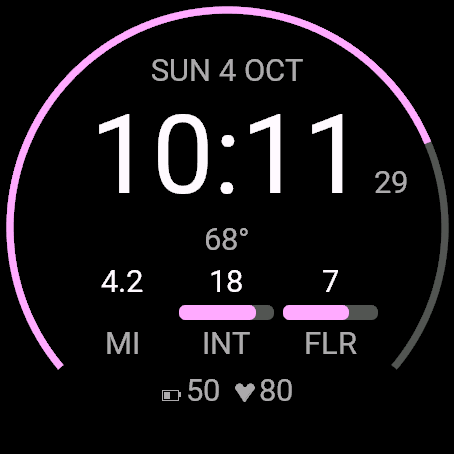
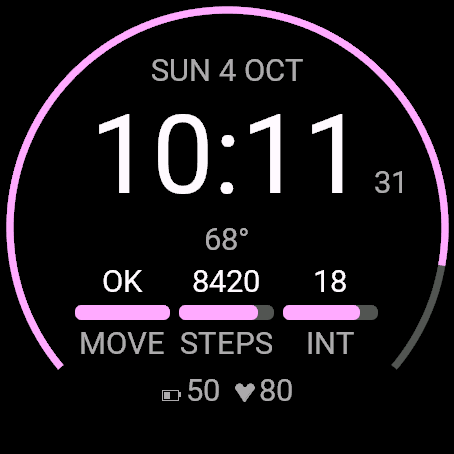
fix(HeroFace): Pro screen 2 and hero use only metrics with a goal, so every bar fills
Claude-Session: https://claude.ai/code/session_01VBnXC1zGyaFSzHFynsMi4H

diff --git a/HeroFace/listing/screenshots.md b/HeroFace/listing/screenshots.md
@@ -9,7 +9,7 @@ All from the Pro build, native simulator pixels, clock 2026-10-04 10:09. No pric
 | # | File | Device | What it shows (what Pro has) |
 |---|---|---|---|
 | 1 | `screens/1-everyday.png` | `fr965`, 454 px | Everyday: 8420 steps, 18 intensity minutes, 7 floors, ring, blue accent, the temperature under the time |
-| 2 | `screens/2-your-bars.png` | `fr965`, 454 px | **Pro's own:** the bars set to distance, intensity minutes and floors, seconds beside the time, the pale magenta accent |
+| 2 | `screens/2-your-bars.png` | `fr965`, 454 px | **Pro's own:** the bars set to the move bar, steps and intensity minutes (each bar fills), seconds beside the time, the pale magenta accent |
 | 3 | `screens/3-goals-met.png` | `fr965`, 454 px | All three goals met: green bars and ring, check marks, gold streak line |
 | 4 | `screens/4-heroset.png` | `fr965`, 454 px | HeroSet mode: push-ups, sit-ups, squats, rank and streak, gold ring (the HeroSet value is canned, see below) |
 | 5 | `screens/5-instinct-e40.png` | **`instincte40mm`, 166 px native, shown x3 (the Instinct family)** | Black and white, the ring is a gauge in the round window (closed here), the time and date left of it, streak, three reversed labels for finished goals |
@@ -30,9 +30,9 @@ docker/capture.sh HeroFace tools/listing_shots.sh pro 2-your-bars.png   # one pi
 
 - The five pictures came out of one full run that also took a few extra frames (a second custom-bars variant, Instinct 2 and Instinct E 45 mm, a goals-met HeroSet frame); the script was trimmed to the chosen five afterwards and the unused frames were discarded. The scenes are unchanged. Extra arguments after `pro` name the files to re-take alone (`... pro 3-goals-met.png`); a "NOT SAVED" line means repeat that one. In the Free twin's long run the simulator kept a stored Accent value, so Free's accent frames are taken one per run; look at every picture.
 - The face is built in a **private copy** of the project, so `source/` and the repo's `properties.xml` are never touched. The clock is the simulator's own (`faketime`), the activity data is typed into Simulation > Activity Monitoring, and each file is the simulator's File > Save Screen Capture, so the size is the device's own.
-- Settings a user would change are set by editing the private copy's `resources-pro/settings/properties.xml`: shot 2 sets `Accent` 2 (Magenta), `Seconds` true, `Slot1` 4 (distance), `Slot2` 3 (intensity minutes), `Slot3` 5 (floors); the others use the defaults (blue, no seconds, bars on Auto).
+- Settings a user would change are set by editing the private copy's `resources-pro/settings/properties.xml`: shot 2 sets `Accent` 2 (Magenta), `Seconds` true, `Slot1` 6 (move bar), `Slot2` 1 (steps), `Slot3` 3 (intensity minutes); only metrics with a goal were used, so every column has a filling bar (distance and calories have no goal and draw an empty column; the first version of this picture used distance and was retaken for that reason); the others use the defaults (blue, no seconds, bars on Auto).
 - **HeroSet mode (shot 4) is canned.** The simulator runs one app at a time, so the face never sees HeroSet's complication. The private copy's `HeroFaceLink.mc` is patched (`isLinked()` true, `progress()` parses `1|20261004|60|45|28|2|40|3|20261003|100`: 60 / 45 / 28 reps of a goal of 100, rank 2, 40 % into the rank, streak 3). Everything after that is the real drawing path, the same one the on-watch link feeds; the numbers are made up and say nothing about HeroSet.
-- Simulator data is fake: the 68° temperature, battery 50, heart rate 80 and the 4.2 mi distance are canned or derived. **Never crop a screenshot into a claim about real readings.** The simulator's activity history does not produce a multi-day streak, so shot 3 reads "1-DAY STREAK".
+- Simulator data is fake: the 68° temperature, battery 50, heart rate 80 and the move bar reading "OK" are canned or derived. **Never crop a screenshot into a claim about real readings.** The simulator's activity history does not produce a multi-day streak, so shot 3 reads "1-DAY STREAK".
 - The FR965 wrist captures from 2026-09-20/21 (`old/3-heroset.png`, `old/4-heroset-complete.png`) are of the pre-split paid build and are no longer used.
 
 ## Cover, hero, icons
@@ -69,13 +69,13 @@ stat -f '%z %N' screens/*.png cover-500.png hero-1440x720.png icon-*.png        
 | File | Pixels | Size |
 |---|---|---|
 | `screens/1-everyday.png` | 454x454 | 16.9 KB |
-| `screens/2-your-bars.png` | 454x454 | 16.9 KB |
+| `screens/2-your-bars.png` | 454x454 | 18.2 KB |
 | `screens/3-goals-met.png` | 454x454 | 16.0 KB |
 | `screens/4-heroset.png` | 454x454 | 19.3 KB |
 | `screens/5-instinct-e40.png` | 498x498 (x3 of the 166 px native) | 3.5 KB |
 | `screens/native/5-instincte40mm-166.png` | 166x166 | 1.6 KB |
 | `cover-500.png` | 500x500 | 79 KB |
-| `hero-1440x720.png` | 1440x720 | 250 KB |
+| `hero-1440x720.png` | 1440x720 | 254 KB |
 | `icon-24-128.png` | 128x128 | 3.6 KB |
 | `icon-64-128.png` | 128x128 | 1.4 KB |
 

diff --git a/HeroFace/listing/NOTES.md b/HeroFace/listing/NOTES.md
@@ -39,7 +39,7 @@ Two steps: attach the `.iq`, then enter details. The form has no price, support 
 
 | Field | Reason |
 |---|---|
-| Screen Images | Re-rendered 2026-10-04 (owner brief): five, the best five for Pro, **one from an Instinct E 40 mm** (Pro is not sold on the Instinct 2 family, so the Instinct 2 is not used here), all from the current Pro build in the simulator. The set shows what Pro has: the temperature (1, 3, 4), the metric per bar and seconds (2), HeroSet mode (4). The always-on shot is still deferred ([`../docs/status.md`](../docs/status.md), item 3); see [`screenshots.md`](screenshots.md) for how and the sizes (all under 20 KB, hero 250 KB, cover 79 KB). The 2026-09-21 set is in `old/`. **OWNER approves the looks.** Open design question for the owner: in screen 2 (and the hero) the distance bar has no fill, because distance has no goal, so the column reads as a missing bar; swap to a metric set where every bar fills (for example calories needs a goal too, so intensity, steps, floors in another order) if that bothers you. The paid listing's live cover changes with this set (the plain cover moves to Free, Pro gets the PRO pill version); see ROADMAP 10.5. |
+| Screen Images | Re-rendered 2026-10-04 (owner brief): five, the best five for Pro, **one from an Instinct E 40 mm** (Pro is not sold on the Instinct 2 family, so the Instinct 2 is not used here), all from the current Pro build in the simulator. The set shows what Pro has: the temperature (1, 3, 4), the metric per bar and seconds (2), HeroSet mode (4). The always-on shot is still deferred ([`../docs/status.md`](../docs/status.md), item 3); see [`screenshots.md`](screenshots.md) for how and the sizes (all under 20 KB, hero 254 KB, cover 79 KB). The 2026-09-21 set is in `old/`. **OWNER approves the looks.** Screen 2 (and the hero centre) uses only metrics that have a goal (move bar, steps, intensity minutes), so every column has a filling bar; an earlier version with distance was retaken. The paid listing's live cover changes with this set (the plain cover moves to Free, Pro gets the PRO pill version); see ROADMAP 10.5. |
 | Cover, hero, icons | Re-rendered 2026-10-04. **Design proposal, OWNER decides:** Free and Pro share the mark; Pro adds a small white "PRO" pill in the ring's opening (cover, both icons) and beside the name (hero). Pro text never says "free"; no price in any image. The on-watch launcher icon is shared by both tiers and unchanged. |
 | Collects user data | Nothing leaves the watch. |
 | App Migration | No: support is the explicit 117-product list in [`../docs/compatibility.md`](../docs/compatibility.md); letting the store add untested devices would ship a layout nobody has run. |
